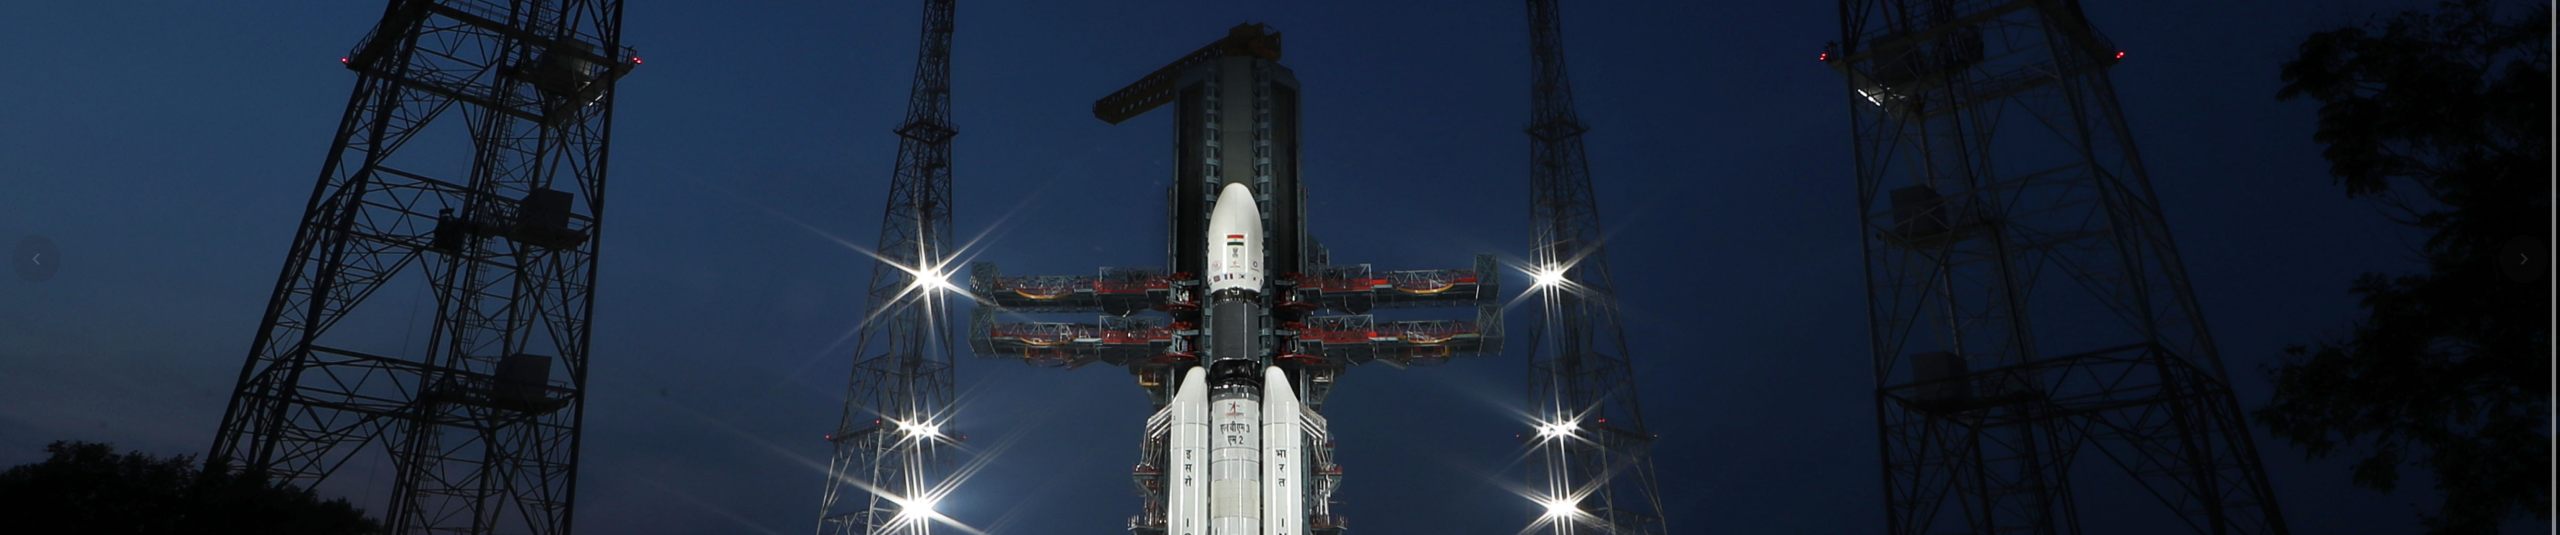
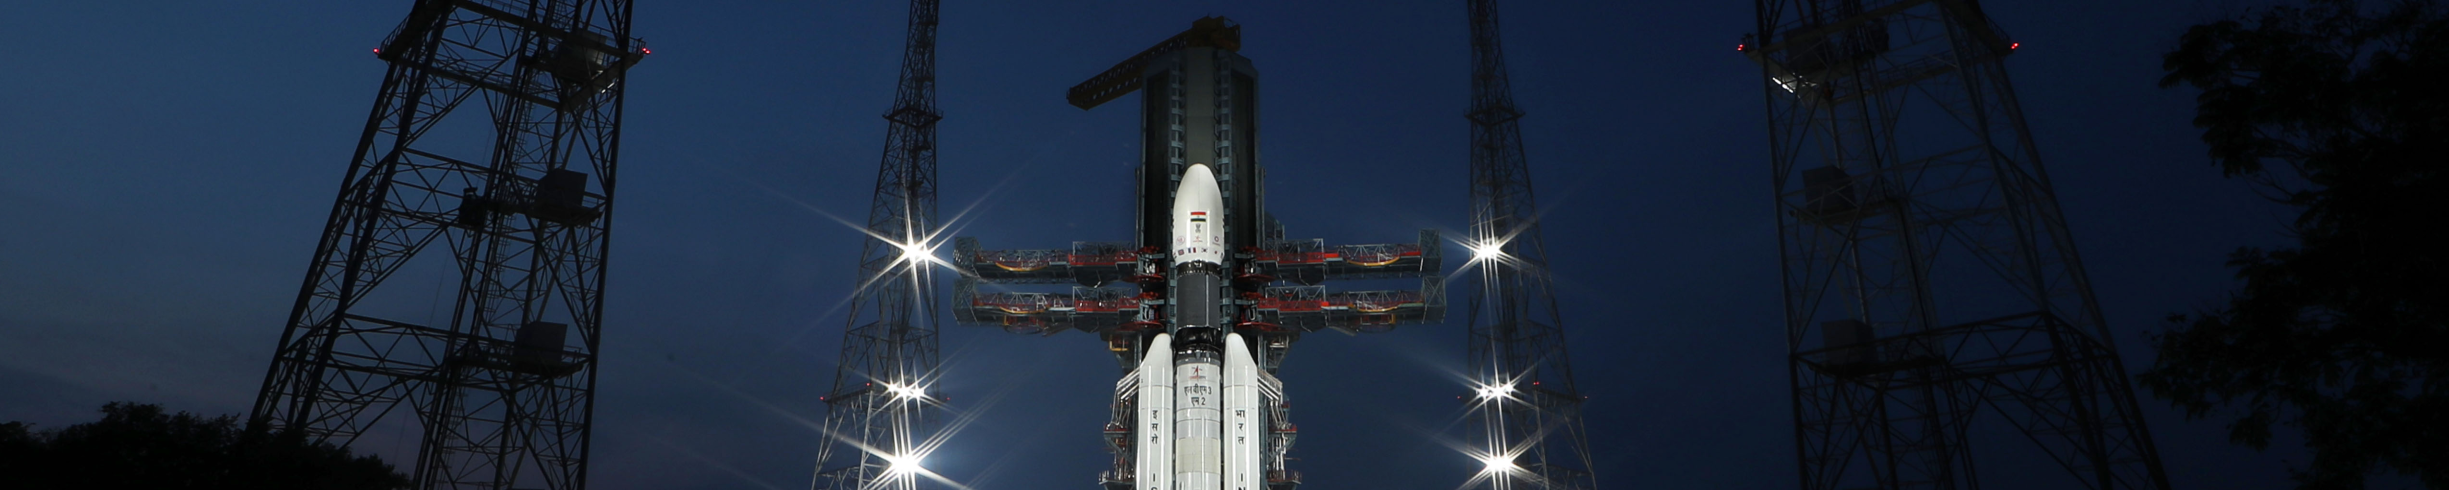
Day 2.3

diff --git a/start.html b/start.html
@@ -1,13 +1,19 @@
 <html>
   <head>
     <title>Antrix India</title>
-    <link rel="stylesheet" href="styles.css">
+    <link rel="stylesheet" href="navbarcss.css">
       <script src="header.js"></script>
 
   </head>
 
-  <body>
-    <div class="banner">
+
+<body style="background-image: url('image1.png'); background-size: cover; background-position: center -50px;">
+
+
+</body>
+
+
+ <div class="banner">
     
   
         </div>
